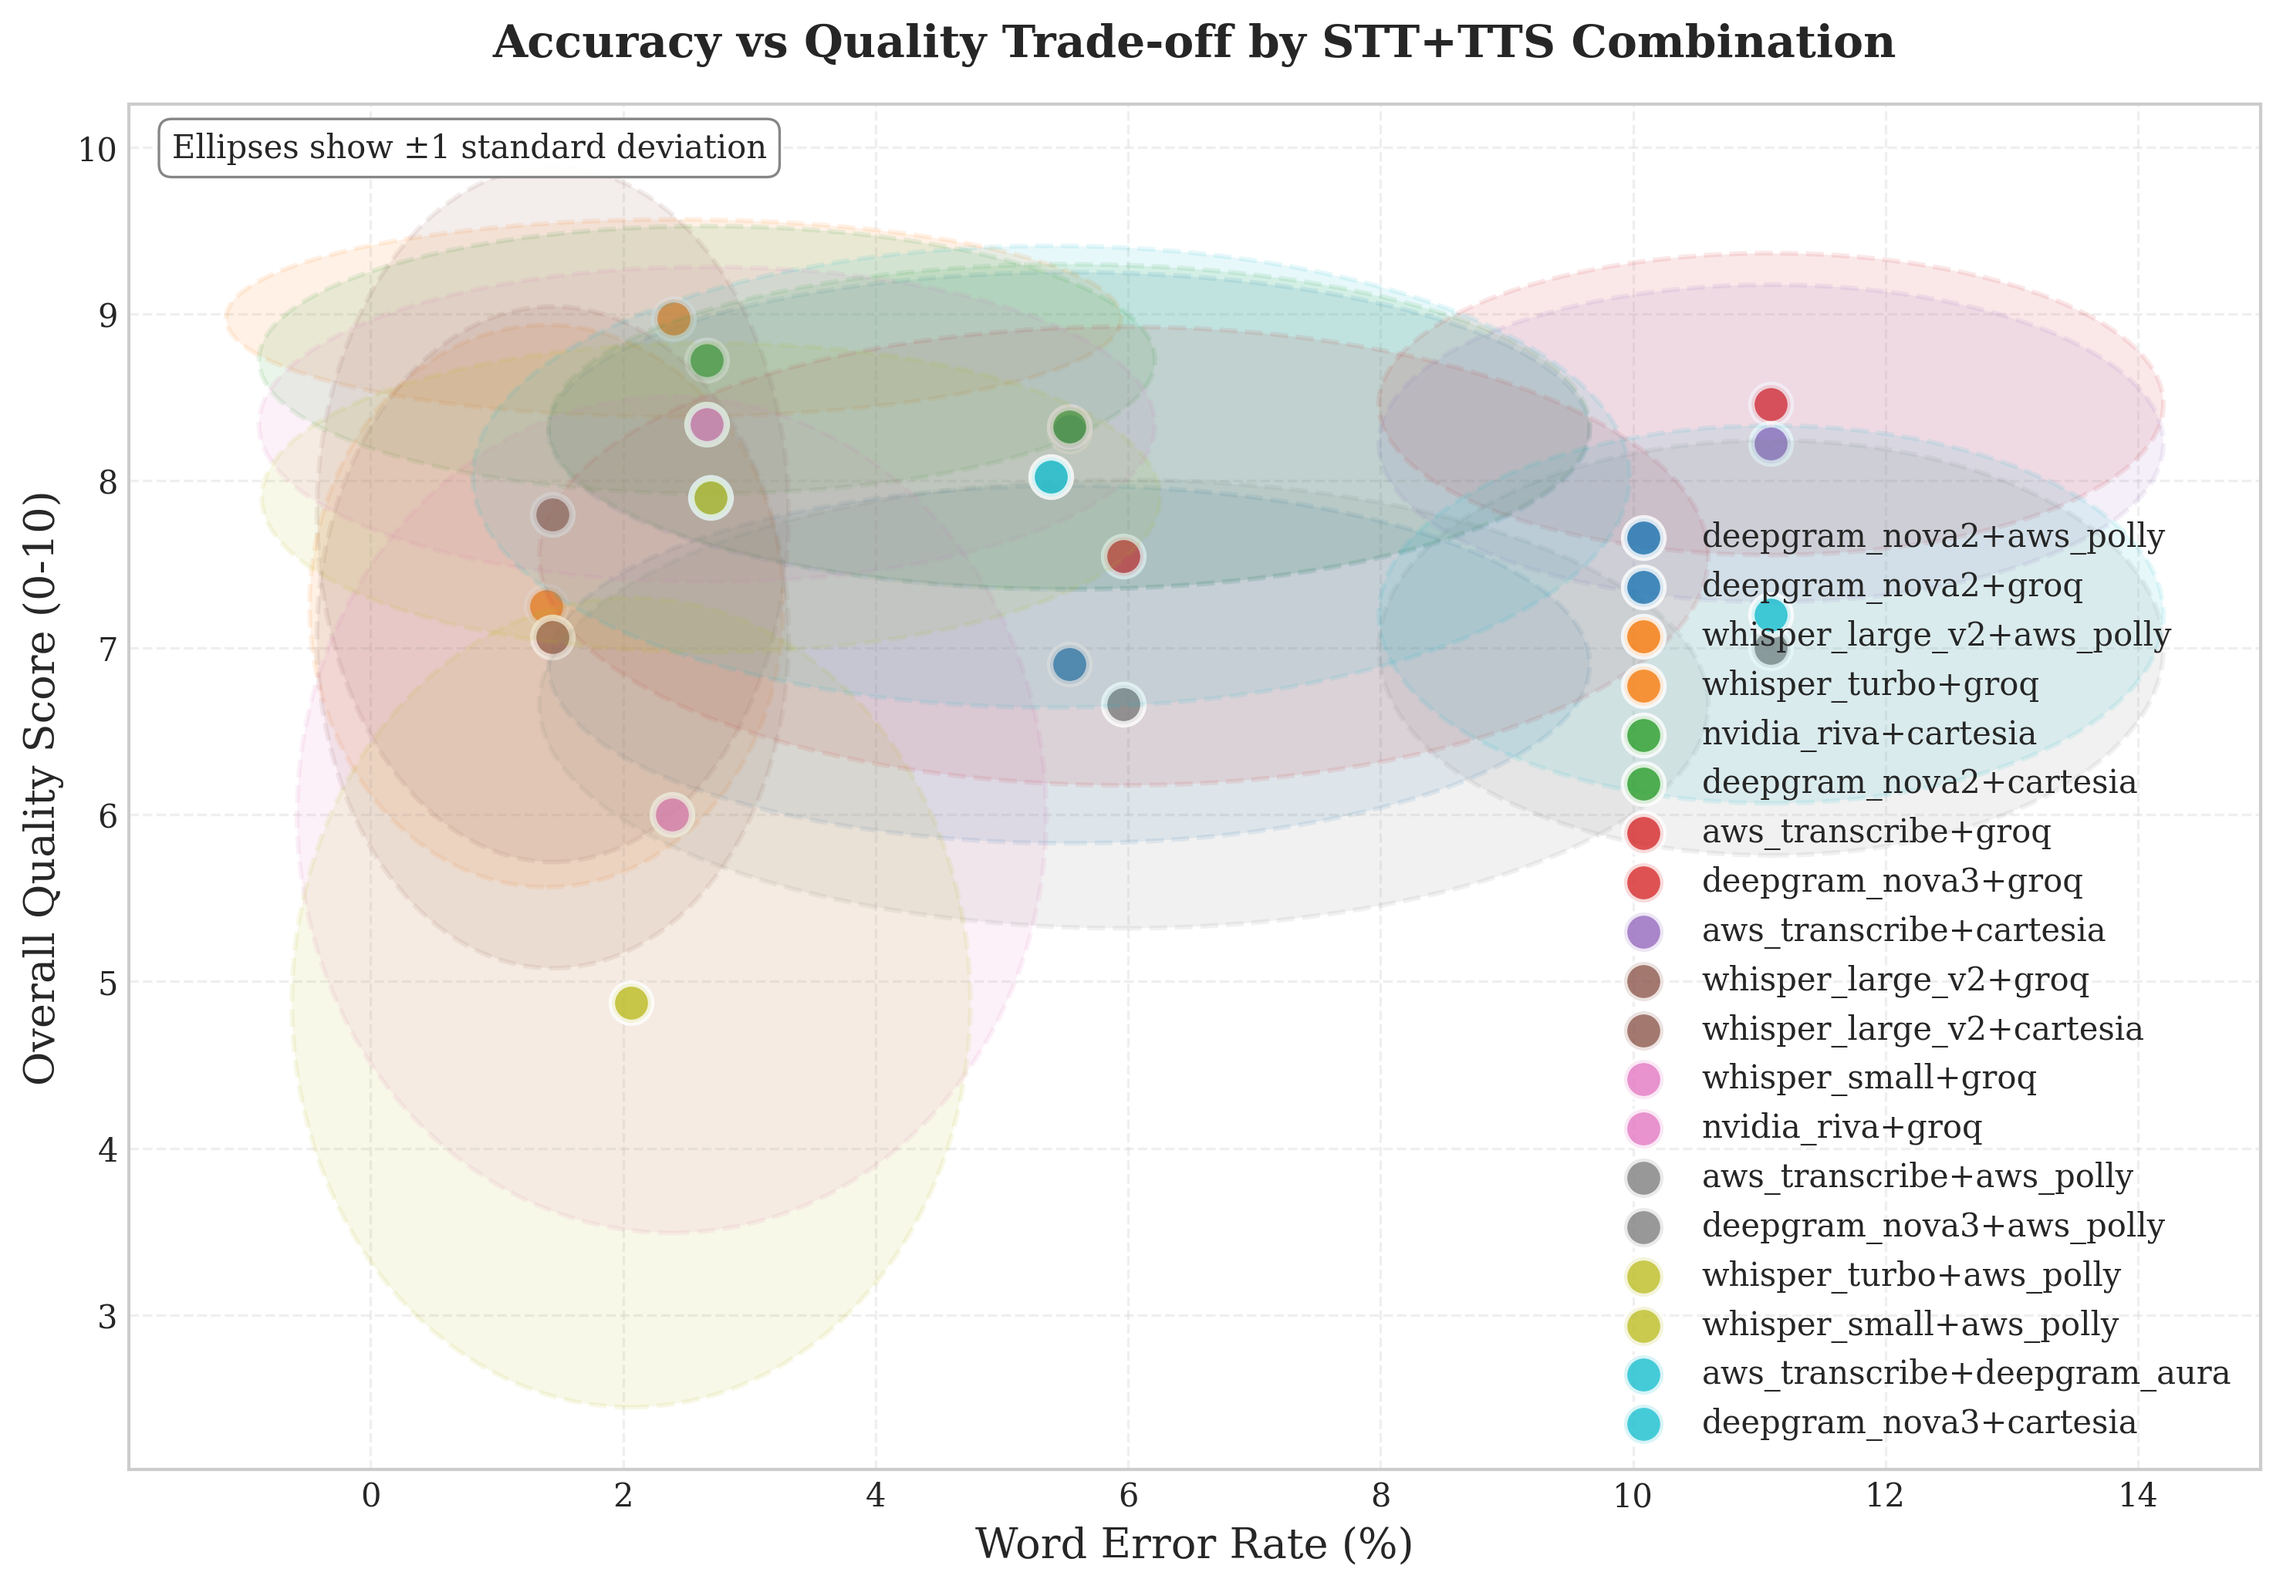
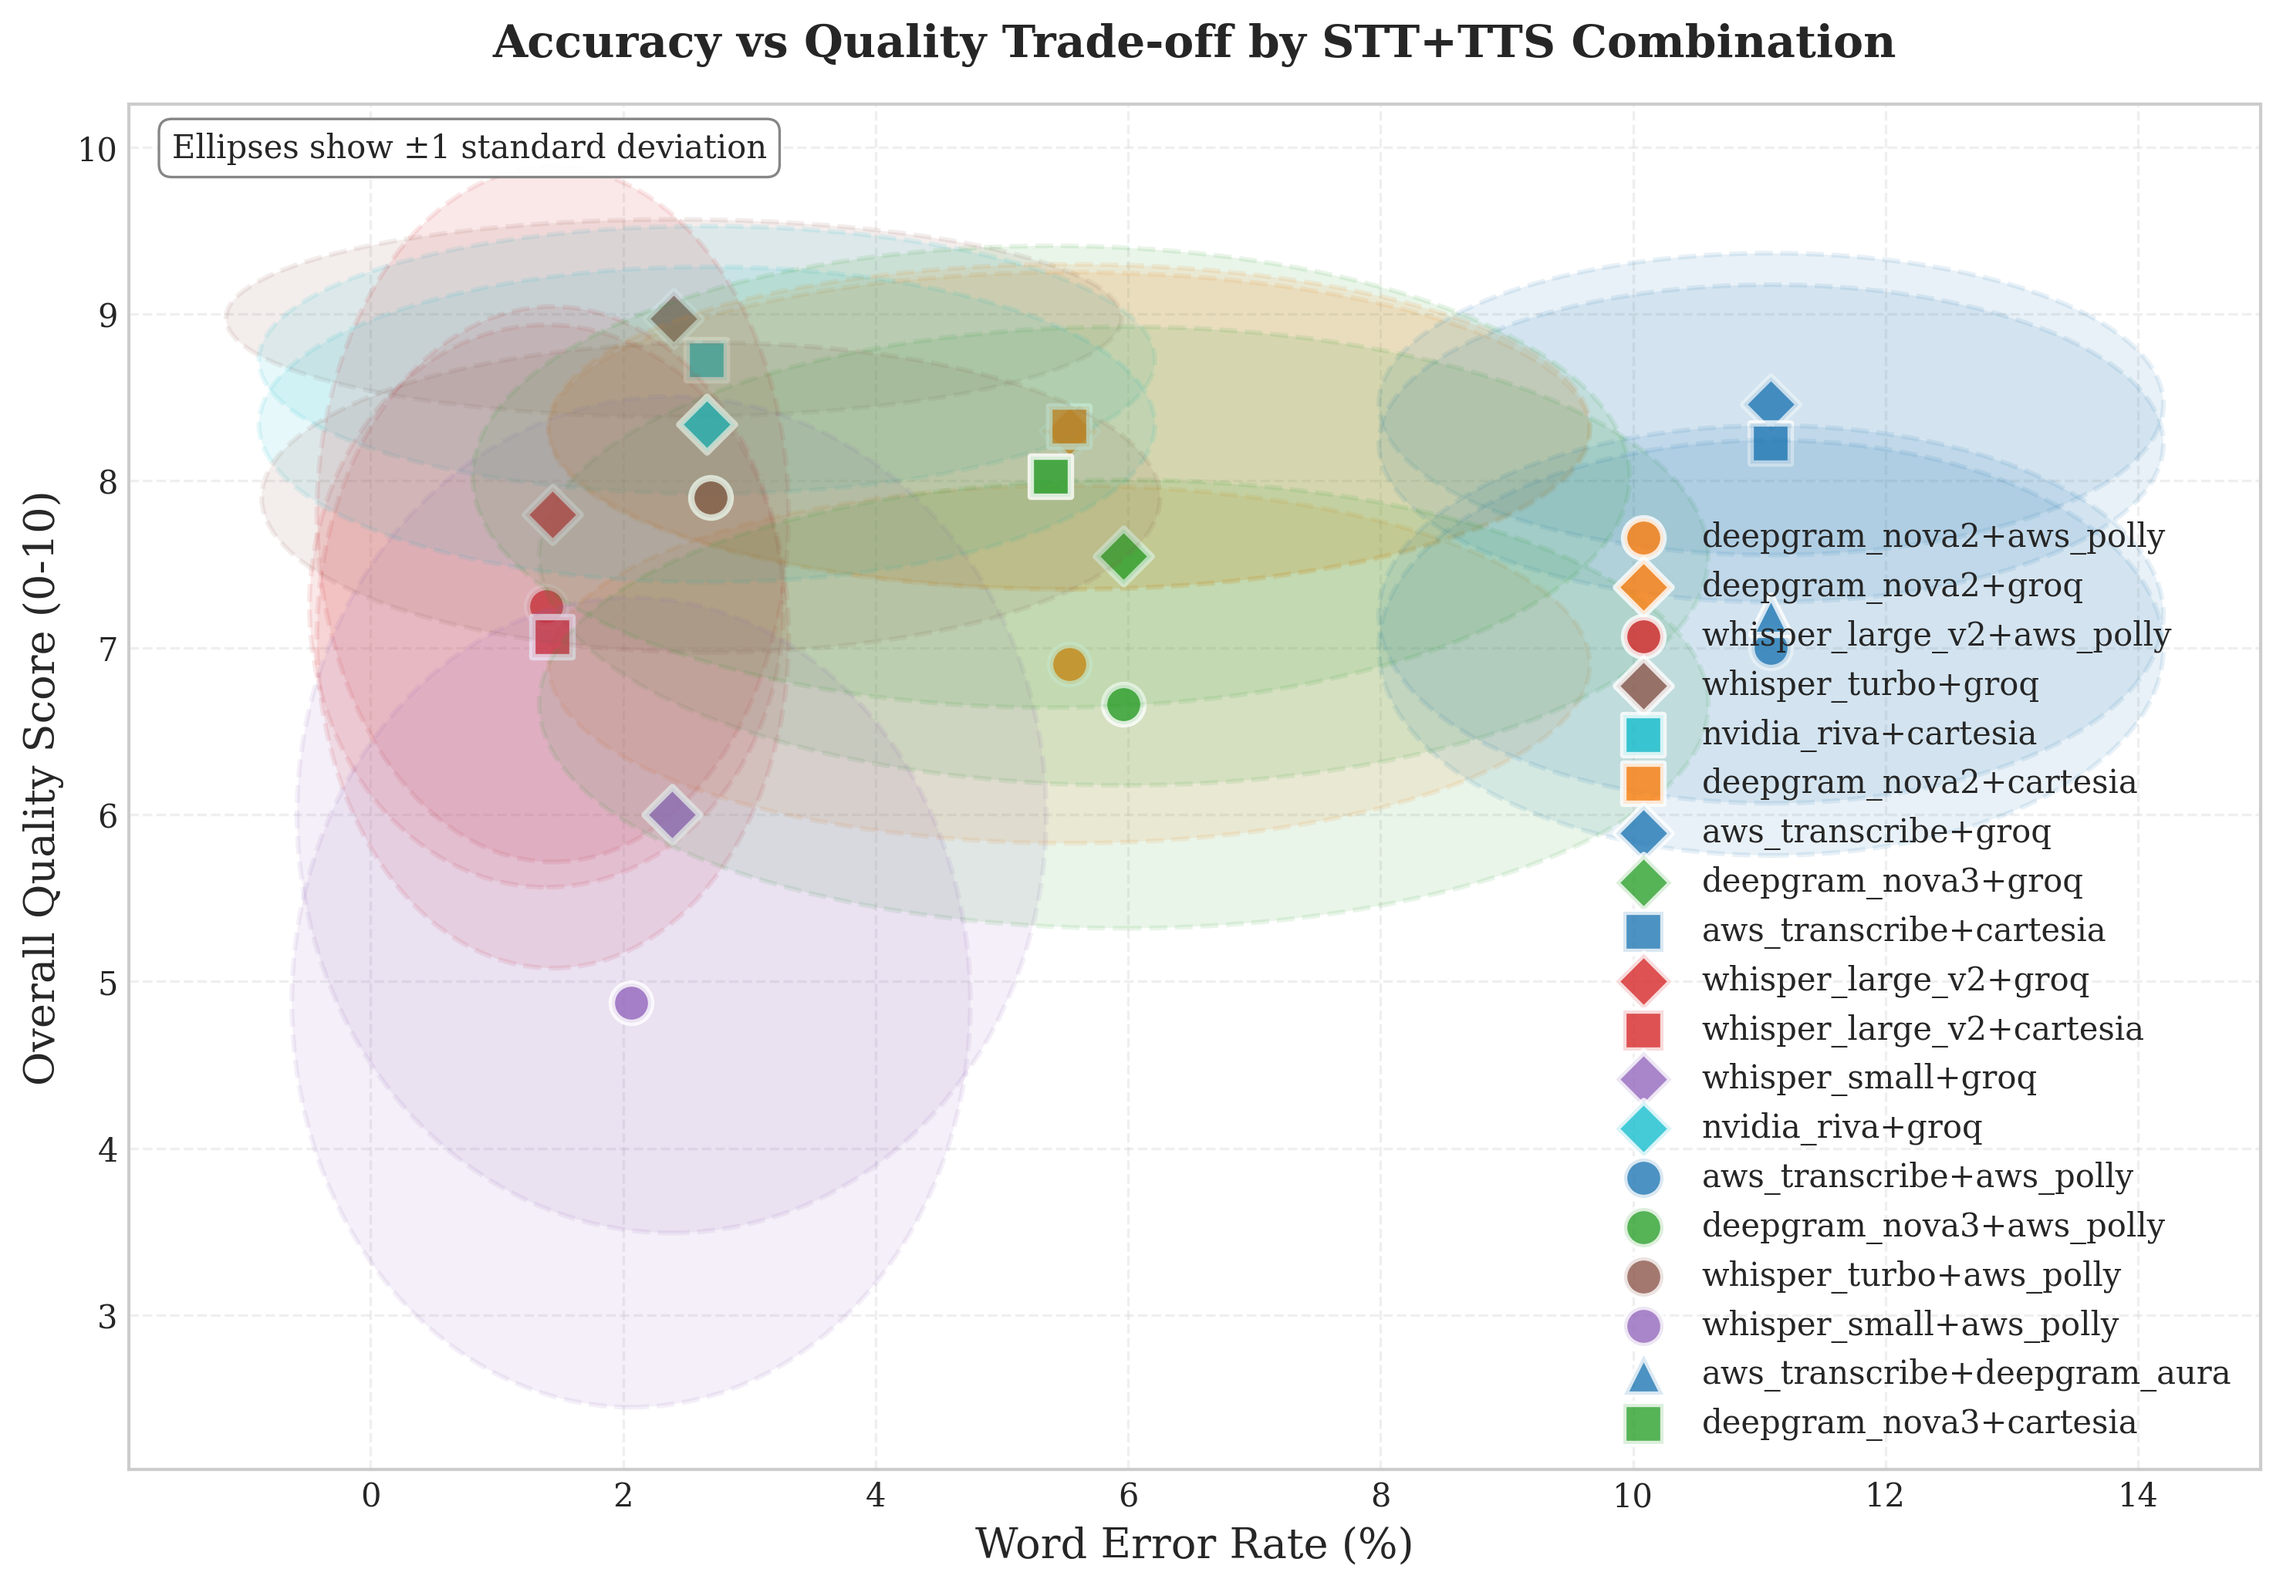
updated plots to be clearer

diff --git a/server/visualize/plot_evaluation_results.py b/server/visualize/plot_evaluation_results.py
@@ -673,18 +673,55 @@ def plot_combination_scatter(combination_metrics: Dict, output_dir: str):
     if not combination_metrics:
         return
     
-    # Use tab10 colormap for distinct combinations
-    combinations = list(combination_metrics.keys())
-    colors = plt.cm.tab10(np.linspace(0, 1, len(combinations)))
+    # Define distinct symbols and colors by provider
+    stt_colors = {
+        'aws_transcribe': '#1f77b4',  # Blue
+        'deepgram_nova2': '#ff7f0e',  # Orange  
+        'deepgram_nova3': '#2ca02c',  # Green
+        'whisper_large': '#d62728',   # Red
+        'whisper_small': '#9467bd',   # Purple
+        'whisper_turbo': '#8c564b',   # Brown
+        'nvidia_parakeet': '#e377c2', # Pink
+        'assemblyai': '#7f7f7f',      # Gray
+        'gladia': '#bcbd22'           # Olive
+    }
+    
+    tts_symbols = {
+        'aws_polly': 'o',
+        'cartesia': 's', 
+        'deepgram': '^',
+        'groq': 'D',
+        'elevenlabs': 'v',
+        'openai': '<',
+        'nvidia': '>',
+        'lmnt': 'p',
+        'playht': '*',
+        'rime': 'h'
+    }
     
     # Plot 1: Accuracy vs Quality Trade-off
     fig, ax = plt.subplots(figsize=(10, 7))
     
-    for i, (combo_key, metrics) in enumerate(combination_metrics.items()):
+    for combo_key, metrics in combination_metrics.items():
         if metrics['wer'] is None or metrics['overall_score'] is None:
             continue
         
-        color = colors[i]
+        # Determine STT color based on specific model
+        stt_model = metrics['stt_model'].lower()
+        color = '#17becf'  # default cyan
+        for stt_key, stt_color in stt_colors.items():
+            if stt_key.replace('_', '') in stt_model.replace('_', ''):
+                color = stt_color
+                break
+        
+        # Determine TTS symbol
+        tts_model = metrics['tts_model']
+        symbol = 'o'  # default
+        for tts_key, tts_symbol in tts_symbols.items():
+            if tts_key in tts_model.lower():
+                symbol = tts_symbol
+                break
+        
         combo_label = f"{metrics['stt_model']}+{metrics['tts_model']}"
         
         x = metrics['wer']
@@ -698,8 +735,8 @@ def plot_combination_scatter(combination_metrics: Dict, output_dir: str):
                          edgecolor=color, linewidth=1.5, linestyle='--')
         ax.add_patch(ellipse)
         
-        # Data point
-        ax.scatter(x, y, s=150, color=color, edgecolors='white', linewidth=2, 
+        # Data point with distinct symbol
+        ax.scatter(x, y, s=150, marker=symbol, color=color, edgecolors='white', linewidth=2, 
                   alpha=0.8, label=combo_label)
     
     ax.set_xlabel('Word Error Rate (%)', fontweight='normal', fontsize=13)
@@ -723,11 +760,26 @@ def plot_combination_scatter(combination_metrics: Dict, output_dir: str):
     # Plot 2: Speed vs Quality Trade-off
     fig, ax = plt.subplots(figsize=(10, 7))
     
-    for i, (combo_key, metrics) in enumerate(combination_metrics.items()):
+    for combo_key, metrics in combination_metrics.items():
         if metrics['total_latency'] is None or metrics['overall_score'] is None:
             continue
         
-        color = colors[i]
+        # Determine STT color based on specific model
+        stt_model = metrics['stt_model'].lower()
+        color = '#17becf'  # default cyan
+        for stt_key, stt_color in stt_colors.items():
+            if stt_key.replace('_', '') in stt_model.replace('_', ''):
+                color = stt_color
+                break
+        
+        # Determine TTS symbol
+        tts_model = metrics['tts_model']
+        symbol = 'o'  # default
+        for tts_key, tts_symbol in tts_symbols.items():
+            if tts_key in tts_model.lower():
+                symbol = tts_symbol
+                break
+        
         combo_label = f"{metrics['stt_model']}+{metrics['tts_model']}"
         
         x = metrics['total_latency']
@@ -741,8 +793,8 @@ def plot_combination_scatter(combination_metrics: Dict, output_dir: str):
                          edgecolor=color, linewidth=1.5, linestyle='--')
         ax.add_patch(ellipse)
         
-        # Data point
-        ax.scatter(x, y, s=150, color=color, edgecolors='white', linewidth=2,
+        # Data point with distinct symbol
+        ax.scatter(x, y, s=150, marker=symbol, color=color, edgecolors='white', linewidth=2,
                   alpha=0.8, label=combo_label)
     
     ax.set_xlabel('Total Latency (ms)', fontweight='normal', fontsize=13)
